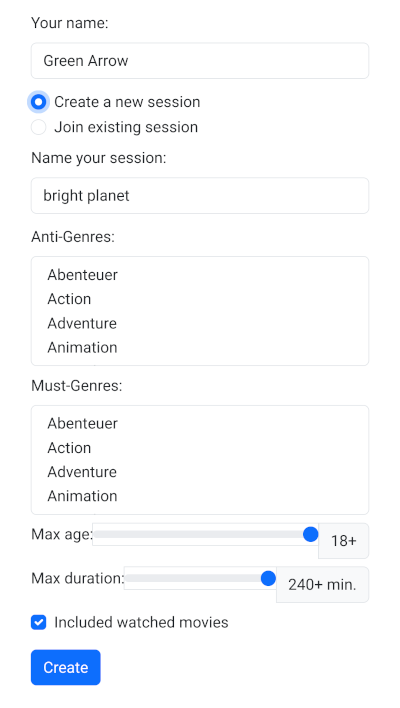
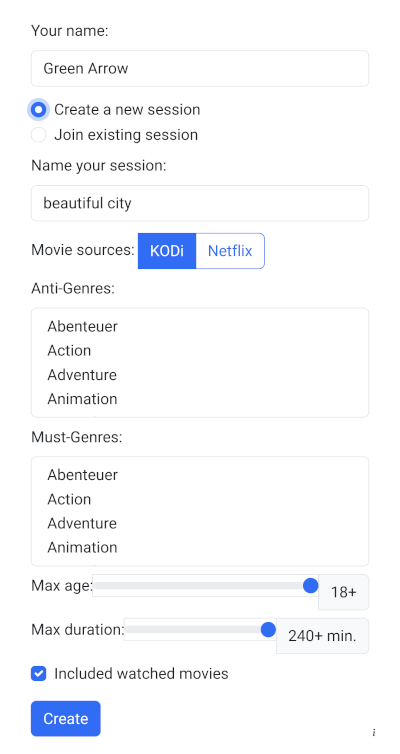
https://github.com/FX7/kinder/issues/42

diff --git a/README.md b/README.md
@@ -109,6 +109,7 @@ All these environment variables can be set `True` or `False` (in .env file, or d
 
 Instead of always setting the same filter defaults for each new session, you can define the defaults.
 
+* KT_FILTER_DEFAULT_SOURCES : Comma seperated names of sources you want to fetch movies from. Take a look at the [Dockerfile](./Dockerfile) for valid values.
 * KT_FILTER_DEFAULT_DISABLED_GENRES : Comma separated names of the genres you want to preselect for "Anti-Genres"
 * KT_FILTER_DEFAULT_MUST_GENRES : Comma separated names of the genres you want to preselect for "Must-Genres"
 * KT_FILTER_DEFAULT_MAX_AGE : Default max age value. Take a look at the [Dockerfile](./Dockerfile) for valid values.
@@ -139,9 +140,13 @@ Session creation screen:
 
 ![Login](./doc/login.png "The Login Screen")
 
-Voting with poster available:
+Voting for Kodi with poster available:
 
-![Vote1](./doc/poster-vote.png "Voting with a poster available")
+![Vote1](./doc/poster-vote_kodi.png "Voting for Kodi with a poster available")
+
+Voting for Netflix with poster available:
+
+![Vote1](./doc/poster-vote_netflix.png "Voting for Netflix with a poster available")
 
 Voting with no poster available:
 
